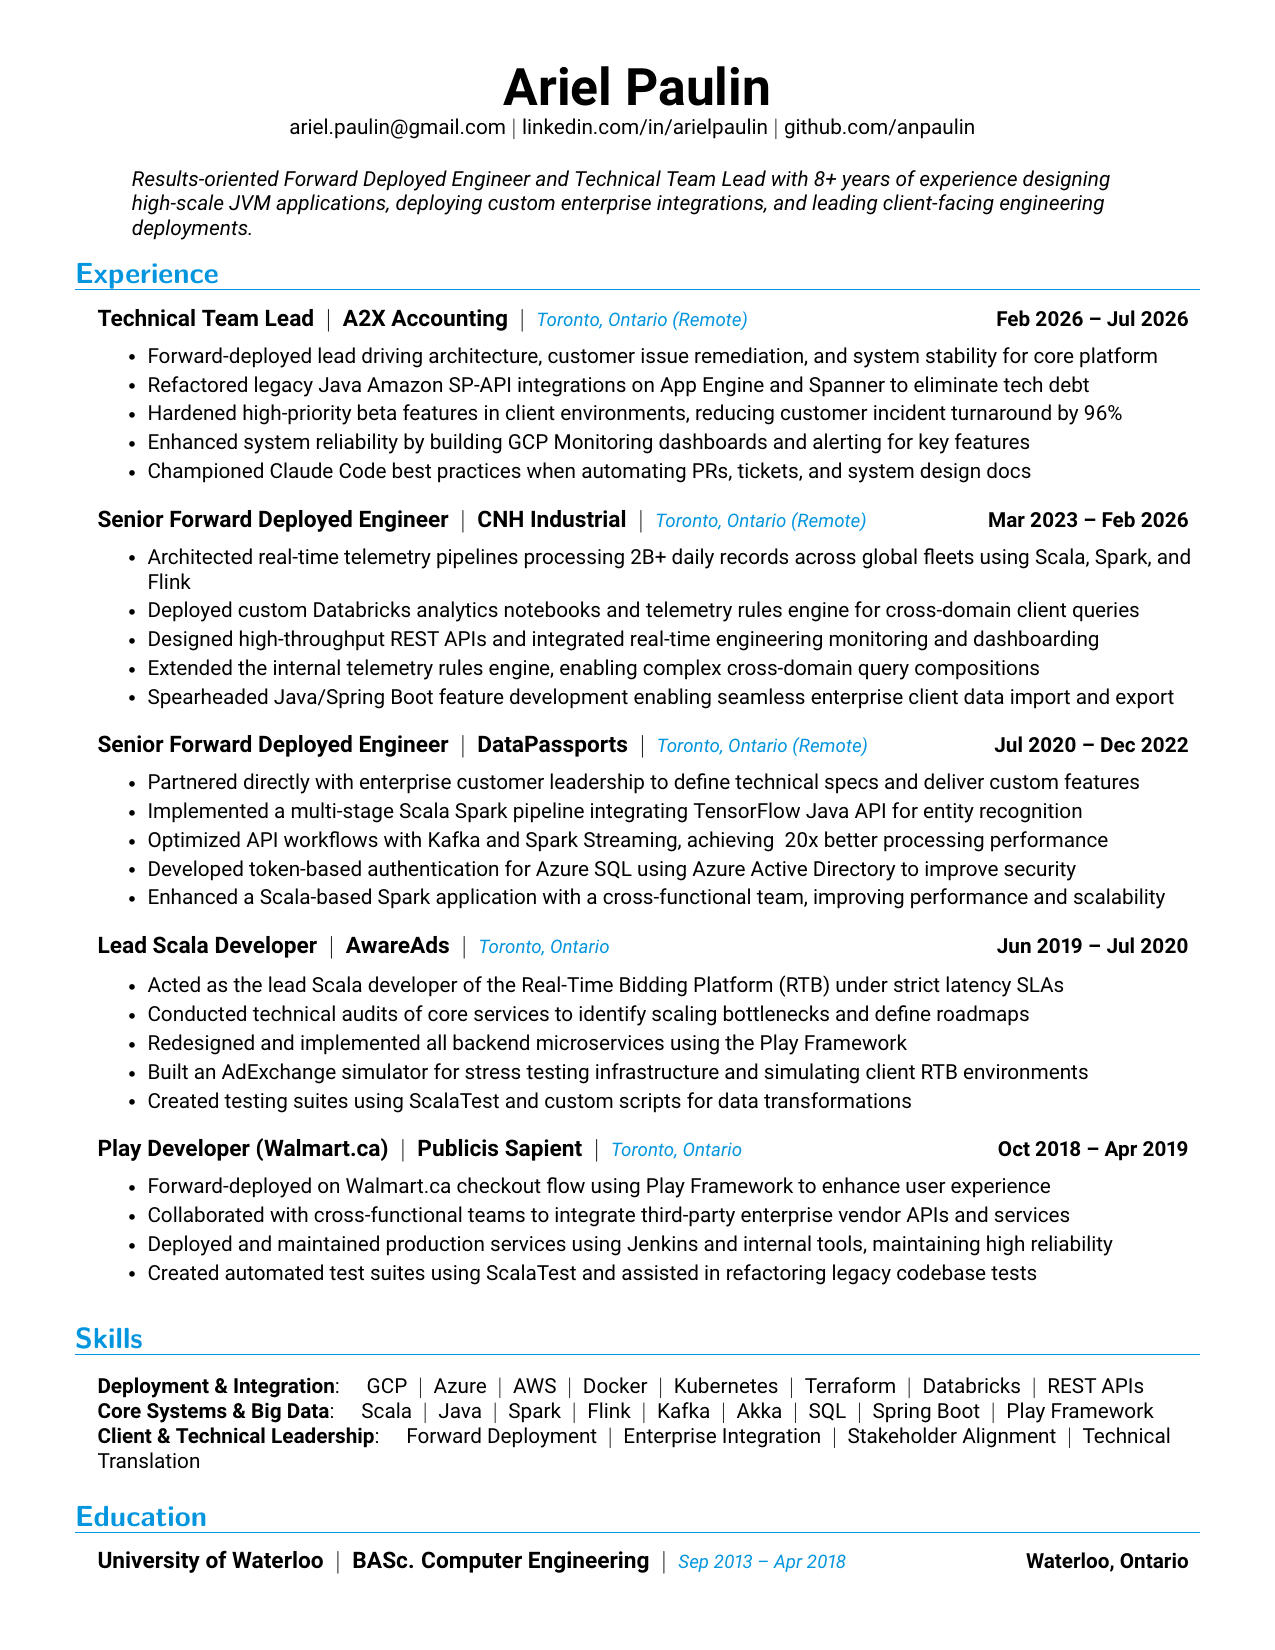
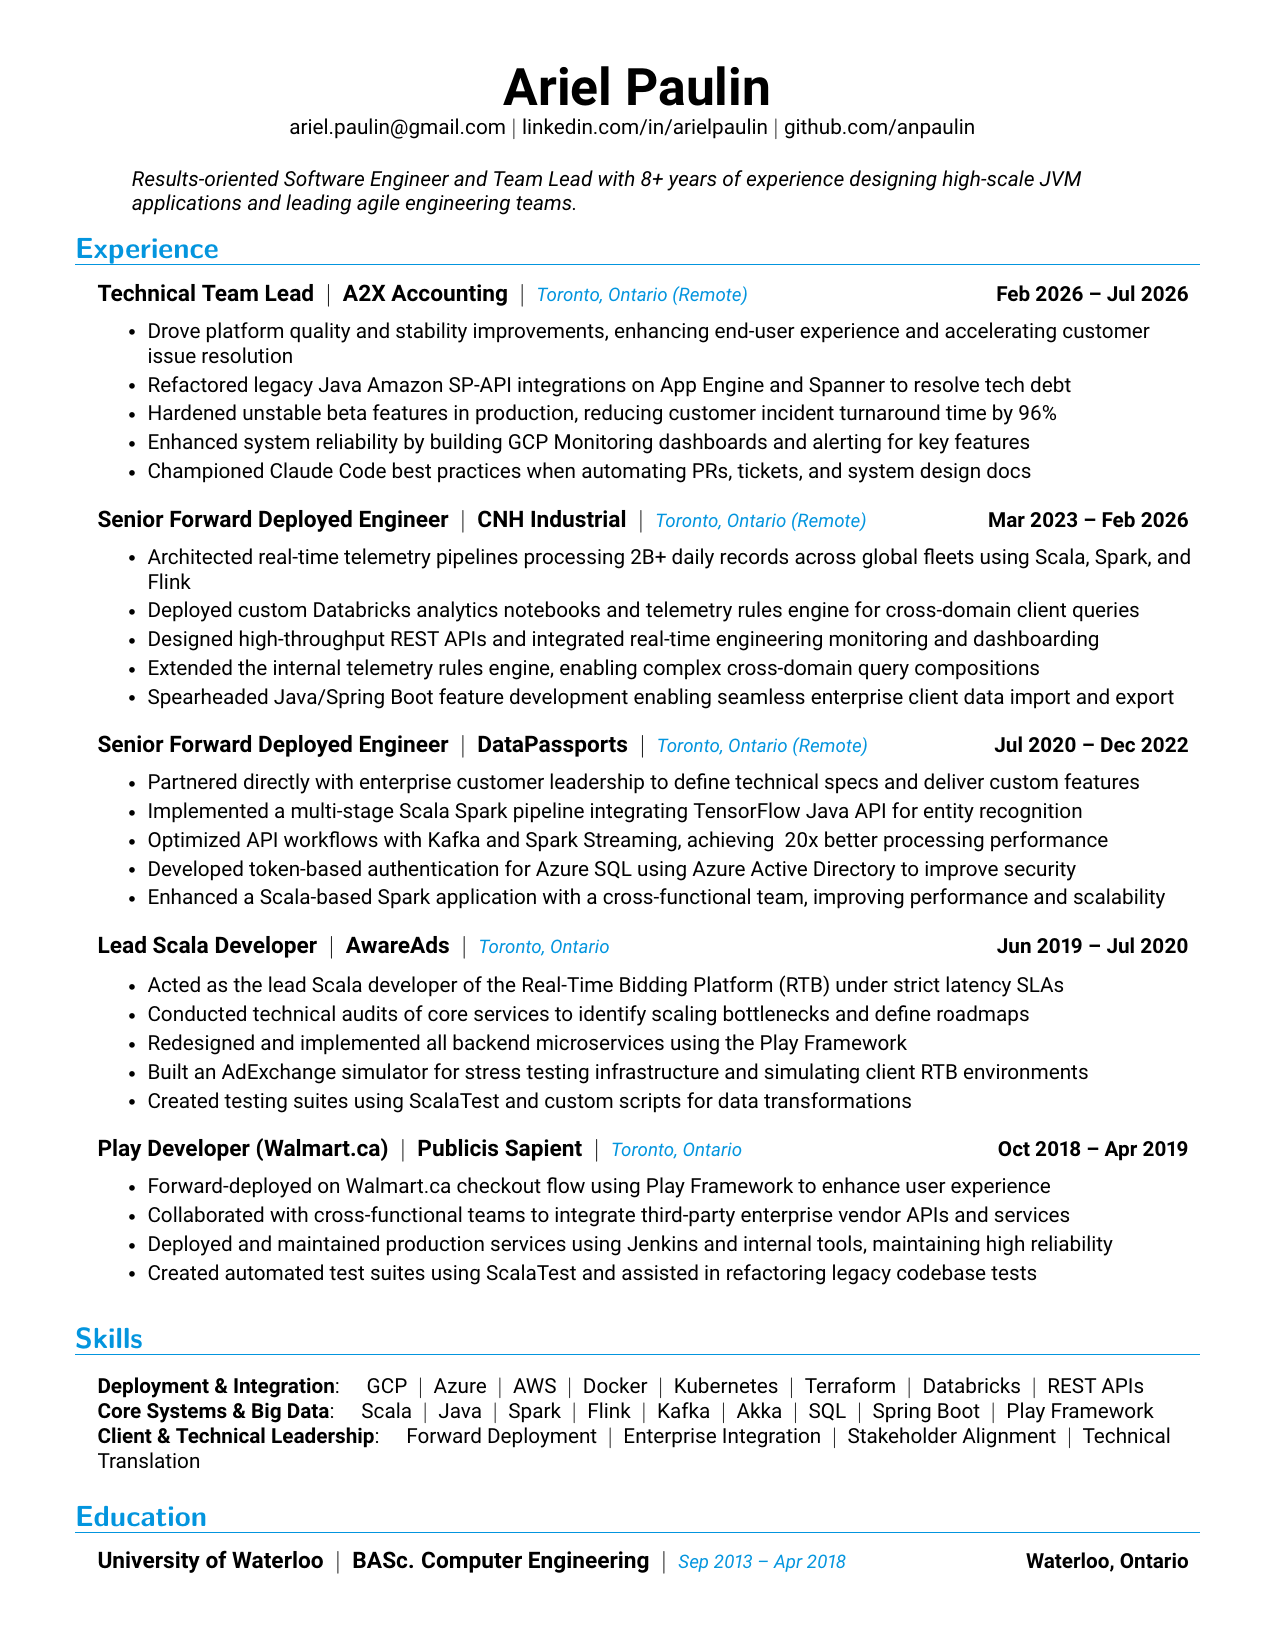
FDE: update A2X first bullet to concisely focus on quality improvements, end-user experience, stability, and incident turnaround

Changed region(s): [[0.0612, 0.0927, 0.9482, 0.2782]]

diff --git a/fde/experience/a2x.tex b/fde/experience/a2x.tex
@@ -2,9 +2,9 @@
   {Technical Team Lead}{Feb 2026 -- Jul 2026}
   {A2X Accounting}{Toronto, Ontario (Remote)}
   \resumeItemListStart
-    \resumeItem{Forward-deployed lead driving architecture, customer issue remediation, and system stability for core platform}
-    \resumeItem{Refactored legacy Java Amazon SP-API integrations on App Engine and Spanner to eliminate tech debt}
-    \resumeItem{Hardened high-priority beta features in client environments, reducing customer incident turnaround by 96\%}
+    \resumeItem{Drove platform quality and stability improvements, enhancing end-user experience and accelerating customer issue resolution}
+    \resumeItem{Refactored legacy Java Amazon SP-API integrations on App Engine and Spanner to resolve tech debt}
+    \resumeItem{Hardened unstable beta features in production, reducing customer incident turnaround time by 96\%}
     \resumeItem{Enhanced system reliability by building GCP Monitoring dashboards and alerting for key features}
     \resumeItem{Championed Claude Code best practices when automating PRs, tickets, and system design docs}
   \resumeItemListEnd
